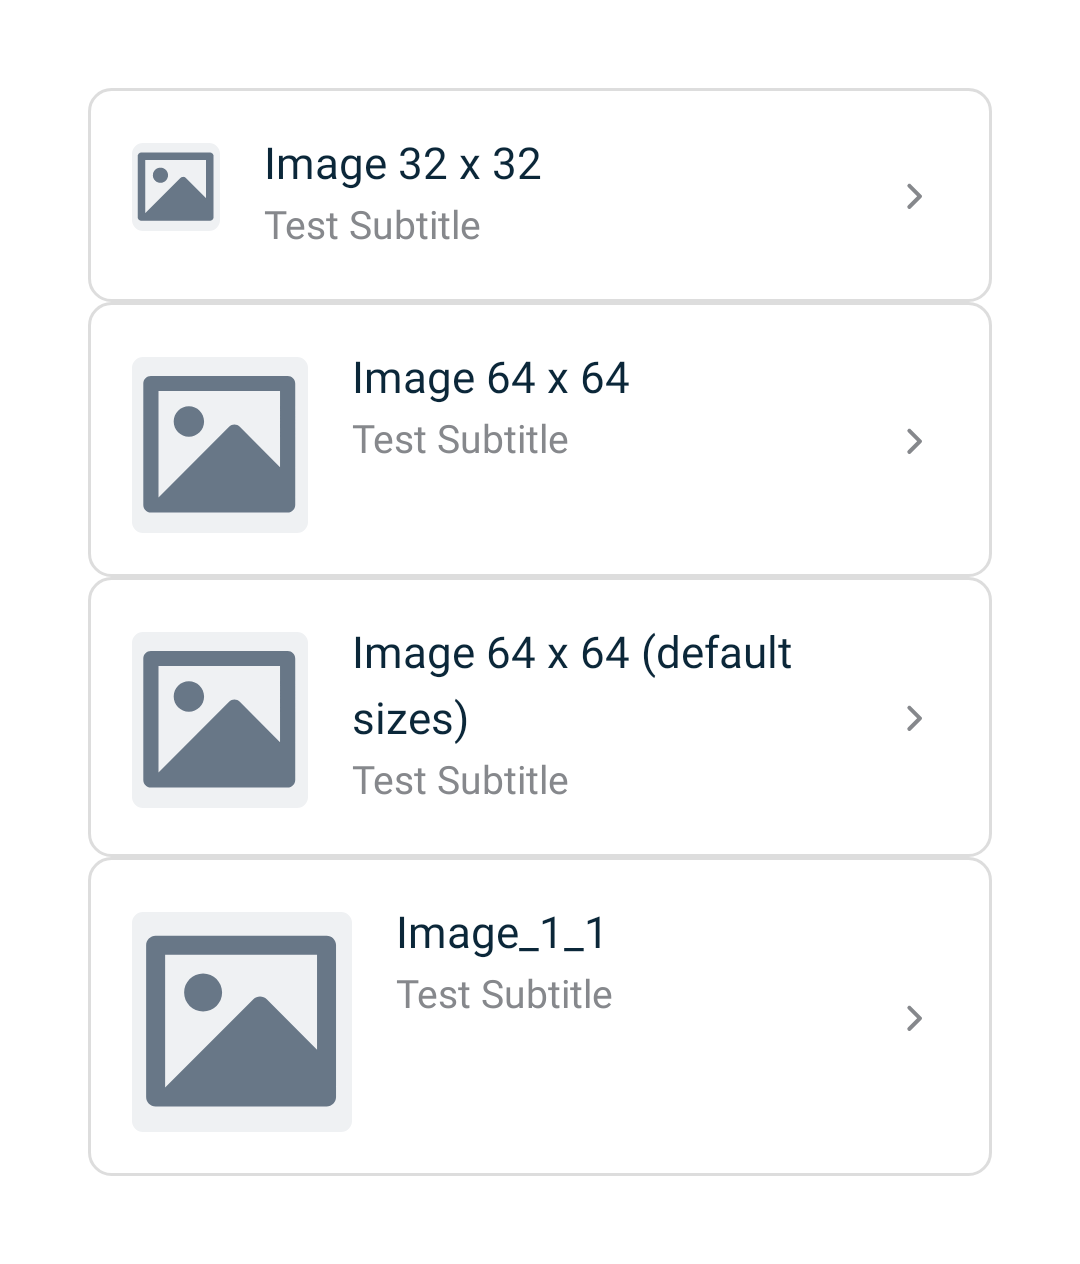
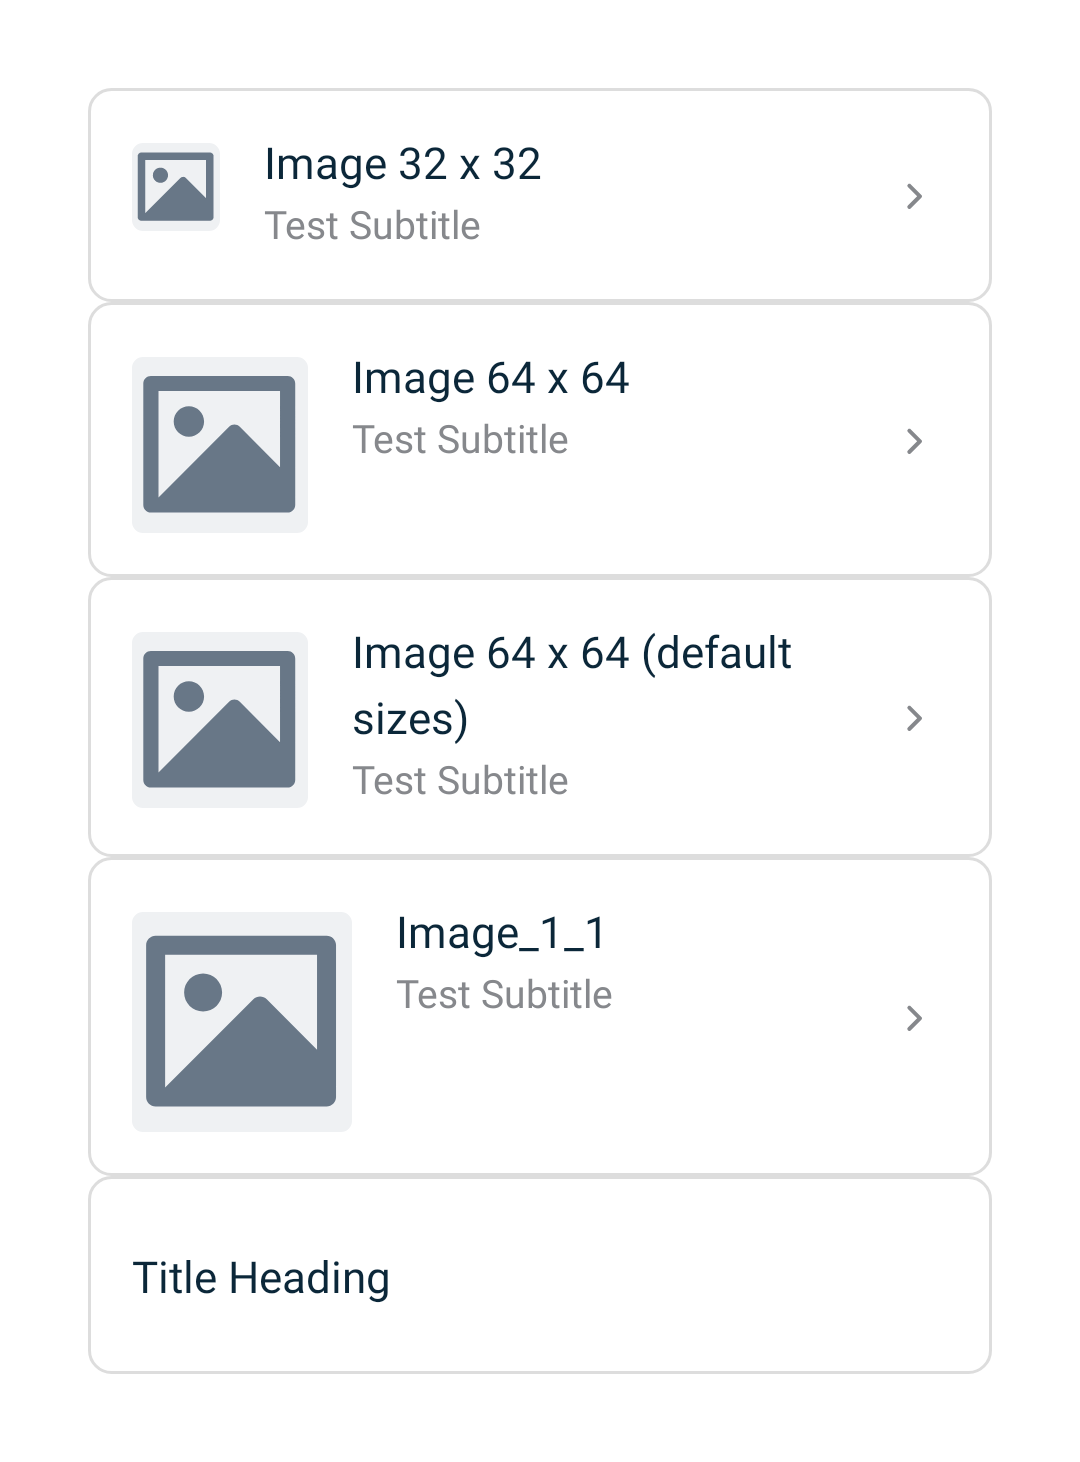
ANDROID-14573 is list row item title heading (#348)
* ANDROID-14573 add isTitleHeading to ListRowItem in compose

* ANDROID-14573 add isTitleHeading to ListRowView for classic views

* ANDROID-14573 fix typo

* ANDROID-14573 add compose tests about accessibility headings

* ANDROID-14573 add views tests about accessibility headings

* ANDROID-14573 removing importantForAccessibility disabled

* Updated screenshots baseline

* ANDROID-14573 update title heading test layout

* Updated screenshots baseline

* ANDROID-14573 add OptIn in ListRowItem

---------

diff --git a/library/src/test/java/com/telefonica/mistica/compose/list/ListRowItemKtTest.kt b/library/src/test/java/com/telefonica/mistica/compose/list/ListRowItemKtTest.kt
@@ -1,31 +1,33 @@
 package com.telefonica.mistica.compose.list
 
 import androidx.compose.foundation.clickable
-import androidx.compose.material.ExperimentalMaterialApi
 import androidx.compose.ui.Modifier
 import androidx.compose.ui.platform.testTag
 import androidx.compose.ui.res.painterResource
+import androidx.compose.ui.test.assert
 import androidx.compose.ui.test.hasTestTag
+import androidx.compose.ui.test.hasText
+import androidx.compose.ui.test.isHeading
 import androidx.compose.ui.test.junit4.createComposeRule
 import androidx.compose.ui.test.onRoot
 import androidx.compose.ui.test.performClick
+import com.telefonica.mistica.R
 import com.telefonica.mistica.compose.shape.Chevron
 import com.telefonica.mistica.compose.tag.Tag
 import com.telefonica.mistica.compose.theme.MisticaTheme
 import com.telefonica.mistica.compose.theme.brand.MovistarBrand
 import com.telefonica.mistica.list.model.ImageDimensions
 import com.telefonica.mistica.testutils.ScreenshotsTest
+import org.junit.Assert.assertEquals
 import org.junit.Rule
 import org.junit.Test
 import org.junit.runner.RunWith
 import org.robolectric.RobolectricTestRunner
-import com.telefonica.mistica.R
-import org.junit.Assert.assertEquals
 
 private const val LIST_ROW_ITEM_ASSET_TAG = "listRowItemAssetTag"
 
 @RunWith(RobolectricTestRunner::class)
-internal class ListRowItemKtTest: ScreenshotsTest() {
+internal class ListRowItemKtTest : ScreenshotsTest() {
     @get:Rule
     val composeTestRule = createComposeRule()
 
@@ -58,7 +60,28 @@ internal class ListRowItemKtTest: ScreenshotsTest() {
         assertEquals(1, clicked)
     }
 
-    @OptIn(ExperimentalMaterialApi::class)
+    @Test
+    fun `check ListRowItem with accessibility heading is heading`() {
+        val titleText = "Title With Heading"
+        `when ListRowItem with title`(
+            title = titleText,
+            isTitleHeading = true,
+        )
+        composeTestRule.onNode(hasText(titleText))
+            .assert(isHeading())
+    }
+
+    @Test
+    fun `check ListRowItem without accessibility heading is NOT heading`() {
+        val titleText = "Title NO Heading"
+        `when ListRowItem with title`(
+            title = titleText,
+            isTitleHeading = false,
+        )
+        composeTestRule.onNode(hasText(titleText))
+            .assert(!isHeading())
+    }
+
     private fun `when ListRowItem with asset`(dimensions: ImageDimensions, onAssetClick: () -> Unit = {}) {
         composeTestRule.setContent {
             MisticaTheme(brand = MovistarBrand) {
@@ -66,7 +89,9 @@ internal class ListRowItemKtTest: ScreenshotsTest() {
                     listRowIcon = ListRowIcon.ImageAsset(
                         painter = painterResource(id = R.drawable.placeholder),
                         dimensions = ImageDimensions(width = dimensions.width, height = dimensions.height),
-                        modifier = Modifier.testTag(LIST_ROW_ITEM_ASSET_TAG).clickable { onAssetClick() },
+                        modifier = Modifier
+                            .testTag(LIST_ROW_ITEM_ASSET_TAG)
+                            .clickable { onAssetClick() },
                     ),
                     headline = Tag("Promo"),
                     isBadgeVisible = true,
@@ -74,6 +99,22 @@ internal class ListRowItemKtTest: ScreenshotsTest() {
                     subtitle = "Subtitle",
                     description = "Description",
                     trailing = { Chevron() },
+                )
+            }
+        }
+    }
+
+    private fun `when ListRowItem with title`(title: String, isTitleHeading: Boolean) {
+        composeTestRule.setContent {
+            MisticaTheme(brand = MovistarBrand) {
+                ListRowItem(
+                    listRowIcon = null,
+                    headline = Tag("Promo"),
+                    isBadgeVisible = true,
+                    title = title,
+                    isTitleHeading = isTitleHeading,
+                    subtitle = "Subtitle",
+                    description = "Description",
                 )
             }
         }

diff --git a/library/src/main/java/com/telefonica/mistica/compose/list/ListRowItem.kt b/library/src/main/java/com/telefonica/mistica/compose/list/ListRowItem.kt
@@ -29,6 +29,8 @@ import androidx.compose.ui.draw.clip
 import androidx.compose.ui.graphics.Color
 import androidx.compose.ui.platform.testTag
 import androidx.compose.ui.res.painterResource
+import androidx.compose.ui.semantics.heading
+import androidx.compose.ui.semantics.semantics
 import androidx.compose.ui.tooling.preview.Preview
 import androidx.compose.ui.unit.dp
 import com.telefonica.mistica.R
@@ -38,12 +40,13 @@ import com.telefonica.mistica.compose.tag.Tag
 import com.telefonica.mistica.compose.theme.MisticaTheme
 import com.telefonica.mistica.compose.theme.brand.MovistarBrand
 
-@ExperimentalMaterialApi
+@OptIn(ExperimentalMaterialApi::class)
 @Composable
 fun ListRowItem(
     modifier: Modifier = Modifier,
     listRowIcon: ListRowIcon? = null,
     title: String? = null,
+    isTitleHeading: Boolean = false,
     subtitle: String? = null,
     description: String? = null,
     backgroundType: BackgroundType = BackgroundType.TYPE_NORMAL,
@@ -59,6 +62,7 @@ fun ListRowItem(
         modifier = modifier,
         icon = { listRowIcon?.Draw() },
         title = title,
+        isTitleHeading = isTitleHeading,
         subtitle = subtitle,
         description = description,
         backgroundType = backgroundType,
@@ -72,13 +76,14 @@ fun ListRowItem(
     )
 }
 
-@ExperimentalMaterialApi
+@OptIn(ExperimentalMaterialApi::class)
 @Composable
 @Deprecated(replaceWith = ReplaceWith("ListRowItem"), message = "Use new ListRowItem with ListRowIcon param instead")
 fun ListRowItem(
     modifier: Modifier = Modifier,
     icon: @Composable (() -> Unit)? = null,
     title: String? = null,
+    isTitleHeading: Boolean = false,
     subtitle: String? = null,
     description: String? = null,
     backgroundType: BackgroundType = BackgroundType.TYPE_NORMAL,
@@ -100,6 +105,7 @@ fun ListRowItem(
         badge = badge,
         isBadgeVisible = isBadgeVisible,
         headline = headline,
+        isTitleHeading = isTitleHeading,
         trailing = trailing,
         onClick = onClick,
         bottom = bottom,
@@ -113,6 +119,7 @@ private fun ListRowItemImp(
     modifier: Modifier = Modifier,
     icon: @Composable (() -> Unit)? = null,
     title: String? = null,
+    isTitleHeading: Boolean = false,
     subtitle: String? = null,
     description: String? = null,
     backgroundType: BackgroundType = BackgroundType.TYPE_NORMAL,
@@ -206,7 +213,15 @@ private fun ListRowItemImp(
                         text = it,
                         style = MisticaTheme.typography.preset3,
                         color = textColorPrimary,
-                        modifier = Modifier.testTag(ListRowItemTestTags.LIST_ROW_ITEM_TITLE),
+                        modifier = Modifier
+                            .testTag(ListRowItemTestTags.LIST_ROW_ITEM_TITLE)
+                            .then(
+                                if (isTitleHeading) {
+                                    Modifier.semantics { heading() }
+                                } else {
+                                    Modifier
+                                }
+                            ),
                     )
                 }
                 subtitle?.let {

diff --git a/library/src/test/java/com/telefonica/mistica/list/ListRowViewTest.kt b/library/src/test/java/com/telefonica/mistica/list/ListRowViewTest.kt
@@ -1,6 +1,7 @@
 package com.telefonica.mistica.list
 
 import android.widget.FrameLayout
+import android.widget.TextView
 import androidx.test.espresso.Espresso
 import androidx.test.espresso.matcher.ViewMatchers
 import androidx.test.ext.junit.rules.activityScenarioRule
@@ -8,13 +9,15 @@ import com.telefonica.mistica.DummyActivity
 import com.telefonica.mistica.R
 import com.telefonica.mistica.testutils.ScreenshotsTest
 import org.junit.Assert.assertEquals
+import org.junit.Assert.assertFalse
+import org.junit.Assert.assertTrue
 import org.junit.Rule
 import org.junit.Test
 import org.junit.runner.RunWith
 import org.robolectric.RobolectricTestRunner
 
 @RunWith(RobolectricTestRunner::class)
-internal class ListRowViewTest: ScreenshotsTest() {
+internal class ListRowViewTest : ScreenshotsTest() {
     @get:Rule
     val rule = activityScenarioRule<DummyActivity>()
 
@@ -35,7 +38,7 @@ internal class ListRowViewTest: ScreenshotsTest() {
             val wrapper: FrameLayout = activity.findViewById(R.id.dummy_activity_wrapper)
             activity.layoutInflater.inflate(R.layout.test_list_row_view, wrapper, true)
 
-            with (activity.findViewById<ListRowView>(R.id.list_row_view_32)) {
+            with(activity.findViewById<ListRowView>(R.id.list_row_view_32)) {
                 setOnClickListener { clicks++ }
                 performClick()
             }
@@ -43,4 +46,30 @@ internal class ListRowViewTest: ScreenshotsTest() {
             assertEquals(1, clicks)
         }
     }
+
+    @Test
+    fun `check ListRowView with accessibility heading is heading`() {
+        rule.scenario.onActivity { activity ->
+            val wrapper: FrameLayout = activity.findViewById(R.id.dummy_activity_wrapper)
+            activity.layoutInflater.inflate(R.layout.test_list_row_view, wrapper, true)
+
+            with(activity.findViewById<ListRowView>(R.id.list_row_view_title_heading)) {
+                assertTrue(hasTitleHeading())
+            }
+        }
+    }
+
+    @Test
+    fun `check ListRowView without accessibility heading is NOT heading`() {
+        rule.scenario.onActivity { activity ->
+            val wrapper: FrameLayout = activity.findViewById(R.id.dummy_activity_wrapper)
+            activity.layoutInflater.inflate(R.layout.test_list_row_view, wrapper, true)
+
+            with(activity.findViewById<ListRowView>(R.id.list_row_view_32)) {
+                assertFalse(hasTitleHeading())
+            }
+        }
+    }
+
+    private fun ListRowView.hasTitleHeading() = this.findViewById<TextView>(R.id.row_title_text).isAccessibilityHeading
 }

diff --git a/catalog/src/main/java/com/telefonica/mistica/catalog/ui/compose/components/Lists.kt b/catalog/src/main/java/com/telefonica/mistica/catalog/ui/compose/components/Lists.kt
@@ -15,7 +15,6 @@ import androidx.compose.foundation.lazy.LazyColumn
 import androidx.compose.foundation.lazy.items
 import androidx.compose.foundation.shape.RoundedCornerShape
 import androidx.compose.material.Divider
-import androidx.compose.material.ExperimentalMaterialApi
 import androidx.compose.material.MaterialTheme
 import androidx.compose.material.Switch
 import androidx.compose.material.Text
@@ -49,6 +48,7 @@ const val DESCRIPTION = "Description"
 fun samples() = listOf(
     ListItem(
         title = TITLE,
+        isTitleHeading = true,
     ),
     ListItem(
         title = TITLE,
@@ -68,6 +68,7 @@ fun samples() = listOf(
     ListItem(
         title = TITLE,
         subtitle = SUBTITLE,
+        isTitleHeading = true,
     ),
     ListItem(
         title = TITLE,
@@ -299,7 +300,6 @@ fun samples() = listOf(
 
 const val IMAGE_URL = "https://www.fotoaparat.cz/imgs/a/26/2639/0n1wjdf0-cr-em13-09-1200x627x9.jpg"
 
-@OptIn(ExperimentalMaterialApi::class)
 @Composable
 fun Lists() {
     val samples = samples()
@@ -319,6 +319,7 @@ fun Lists() {
                 listRowIcon = item.listRowIcon,
                 headline = item.headline,
                 title = item.title,
+                isTitleHeading = item.isTitleHeading,
                 subtitle = item.subtitle,
                 description = item.description,
                 trailing = item.action,
@@ -390,6 +391,7 @@ fun Lists() {
 data class ListItem(
     val listRowIcon: ListRowIcon? = null,
     val title: String? = null,
+    val isTitleHeading: Boolean = false,
     val subtitle: String? = null,
     val description: String? = null,
     val backgroundType: BackgroundType = BackgroundType.TYPE_NORMAL,
@@ -397,7 +399,7 @@ data class ListItem(
     val isBadgeVisible: Boolean = false,
     val headline: Tag? = null,
     val action: @Composable (() -> Unit)? = null,
-    val onClick: () -> Unit = {},
+    val onClick: (() -> Unit)? = null,
     val bottom: @Composable (() -> Unit)? = null,
 )
 
@@ -449,7 +451,6 @@ private fun CustomSlot() {
 }
 
 @Composable
-@OptIn(ExperimentalMaterialApi::class)
 private fun ClickableAssetSample(context: Context, onRowClick: () -> Unit) {
     ListRowItem(
         title = "Clickable Asset in Clickable Row",

diff --git a/catalog/src/main/java/com/telefonica/mistica/catalog/ui/classic/components/ListsCatalogFragment.kt b/catalog/src/main/java/com/telefonica/mistica/catalog/ui/classic/components/ListsCatalogFragment.kt
@@ -84,6 +84,7 @@ class ListsCatalogFragment : Fragment() {
             {
                 it.configureView(
                     withInverseBackground = withInverseBackground,
+                    withTitleHeading = true,
                 )
             },
             {
@@ -111,6 +112,7 @@ class ListsCatalogFragment : Fragment() {
                 it.configureView(
                     withLongDescription = false,
                     withInverseBackground = withInverseBackground,
+                    withTitleHeading = true,
                 )
             },
             {
@@ -461,6 +463,7 @@ class ListsCatalogFragment : Fragment() {
         private fun ListRowView.configureView(
             withLongTitle: Boolean = false,
             withTitleMaxLines: Int? = null,
+            withTitleHeading: Boolean? = false,
             withLongDescription: Boolean? = null,
             withDescriptionMaxLines: Int? = null,
             withAsset: Boolean = false,
@@ -491,6 +494,9 @@ class ListsCatalogFragment : Fragment() {
             withTitleMaxLines?.let { setTitleMaxLines(it) }
             setTitle(if (withLongTitle) "Title long enough to need more than 2 lines to show it, just for testing purposes." +
                     "More sample text just for testing purposes." else "Title")
+            if (withTitleHeading == true) {
+                setTitleHeading()
+            }
             withSubtitleMaxLines?.let { setSubtitleMaxLines(it) }
             setSubtitle(if (withSubtitle) "Any Subtitle" else null)
             withDescriptionMaxLines?.let { setDescriptionMaxLines(it) }

diff --git a/library/src/main/java/com/telefonica/mistica/list/ListRowView.kt b/library/src/main/java/com/telefonica/mistica/list/ListRowView.kt
@@ -18,6 +18,7 @@ import androidx.annotation.LayoutRes
 import androidx.appcompat.content.res.AppCompatResources
 import androidx.constraintlayout.widget.ConstraintLayout
 import androidx.constraintlayout.widget.ConstraintSet
+import androidx.core.view.ViewCompat
 import androidx.core.view.isVisible
 import androidx.databinding.BindingAdapter
 import androidx.databinding.BindingMethod
@@ -245,6 +246,14 @@ class ListRowView @JvmOverloads constructor(
             )
                 .takeIf { it != TypedValue.TYPE_NULL }
                 .let { setActionLayout(it ?: ACTION_NONE) }
+
+            styledAttrs.getBoolean(
+                R.styleable.ListRowView_listRowIsTitleHeading,
+                false
+            )
+                .takeIf { it }
+                ?.let { setTitleHeading() }
+
             styledAttrs.recycle()
         }
     }
@@ -378,6 +387,10 @@ class ListRowView @JvmOverloads constructor(
             titleTextView.maxLines = maxLines
             titleTextView.ellipsize = TextUtils.TruncateAt.END
         }
+    }
+
+    fun setTitleHeading() {
+        ViewCompat.setAccessibilityHeading(titleTextView, true)
     }
 
     @Deprecated(

diff --git a/library/src/main/java/com/telefonica/mistica/list/README.md b/library/src/main/java/com/telefonica/mistica/list/README.md
@@ -16,6 +16,7 @@ Implemented as a custom view, `com.telefonica.mistica.ListRowView` can be used i
 	</attr>
 	<attr name="listRowHeadlineVisible" format="boolean" />
 	<attr name="listRowTitle" format="string" />
+	<attr name="isTitleHeading" format="boolean" />
 	<attr name="listRowTitleMaxLines" format="integer" />
 	<attr name="listRowSubtitle" format="string" />
 	<attr name="listRowSubtitleMaxLines" format="integer" />
